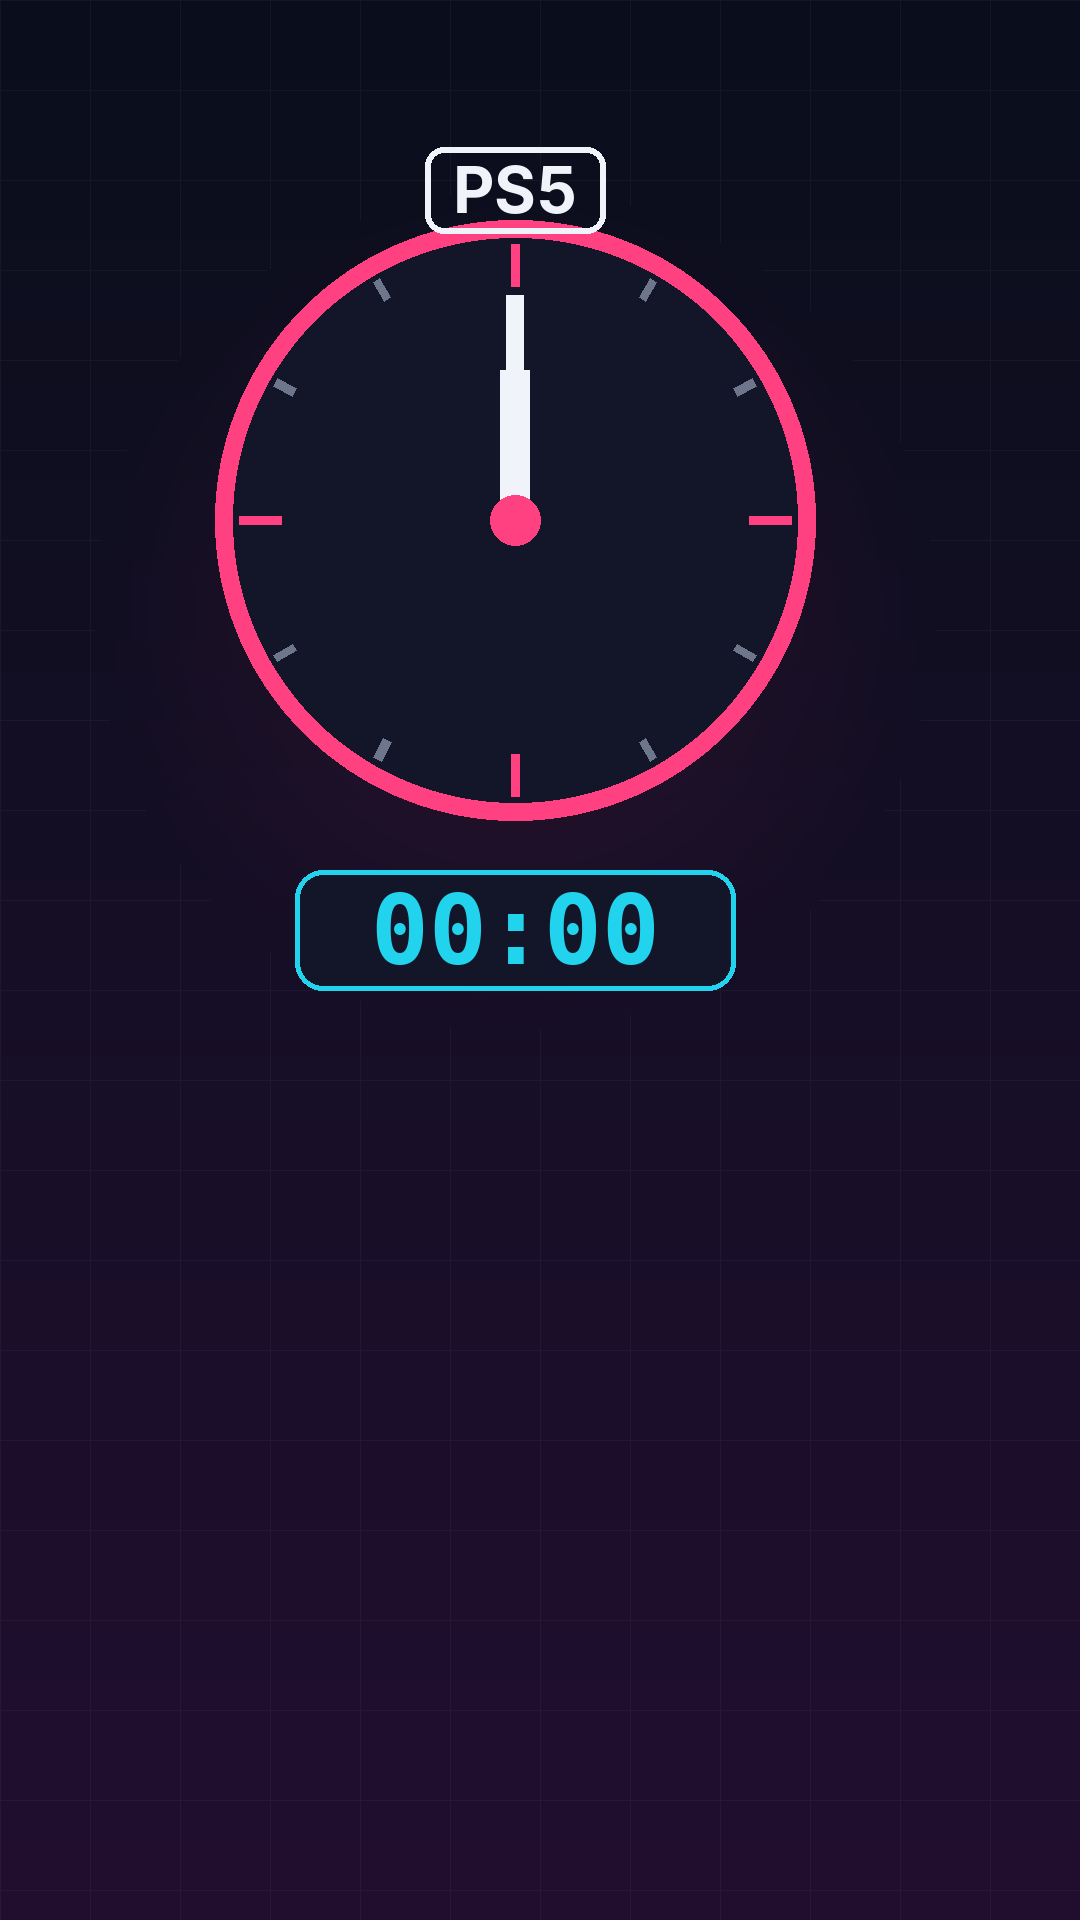
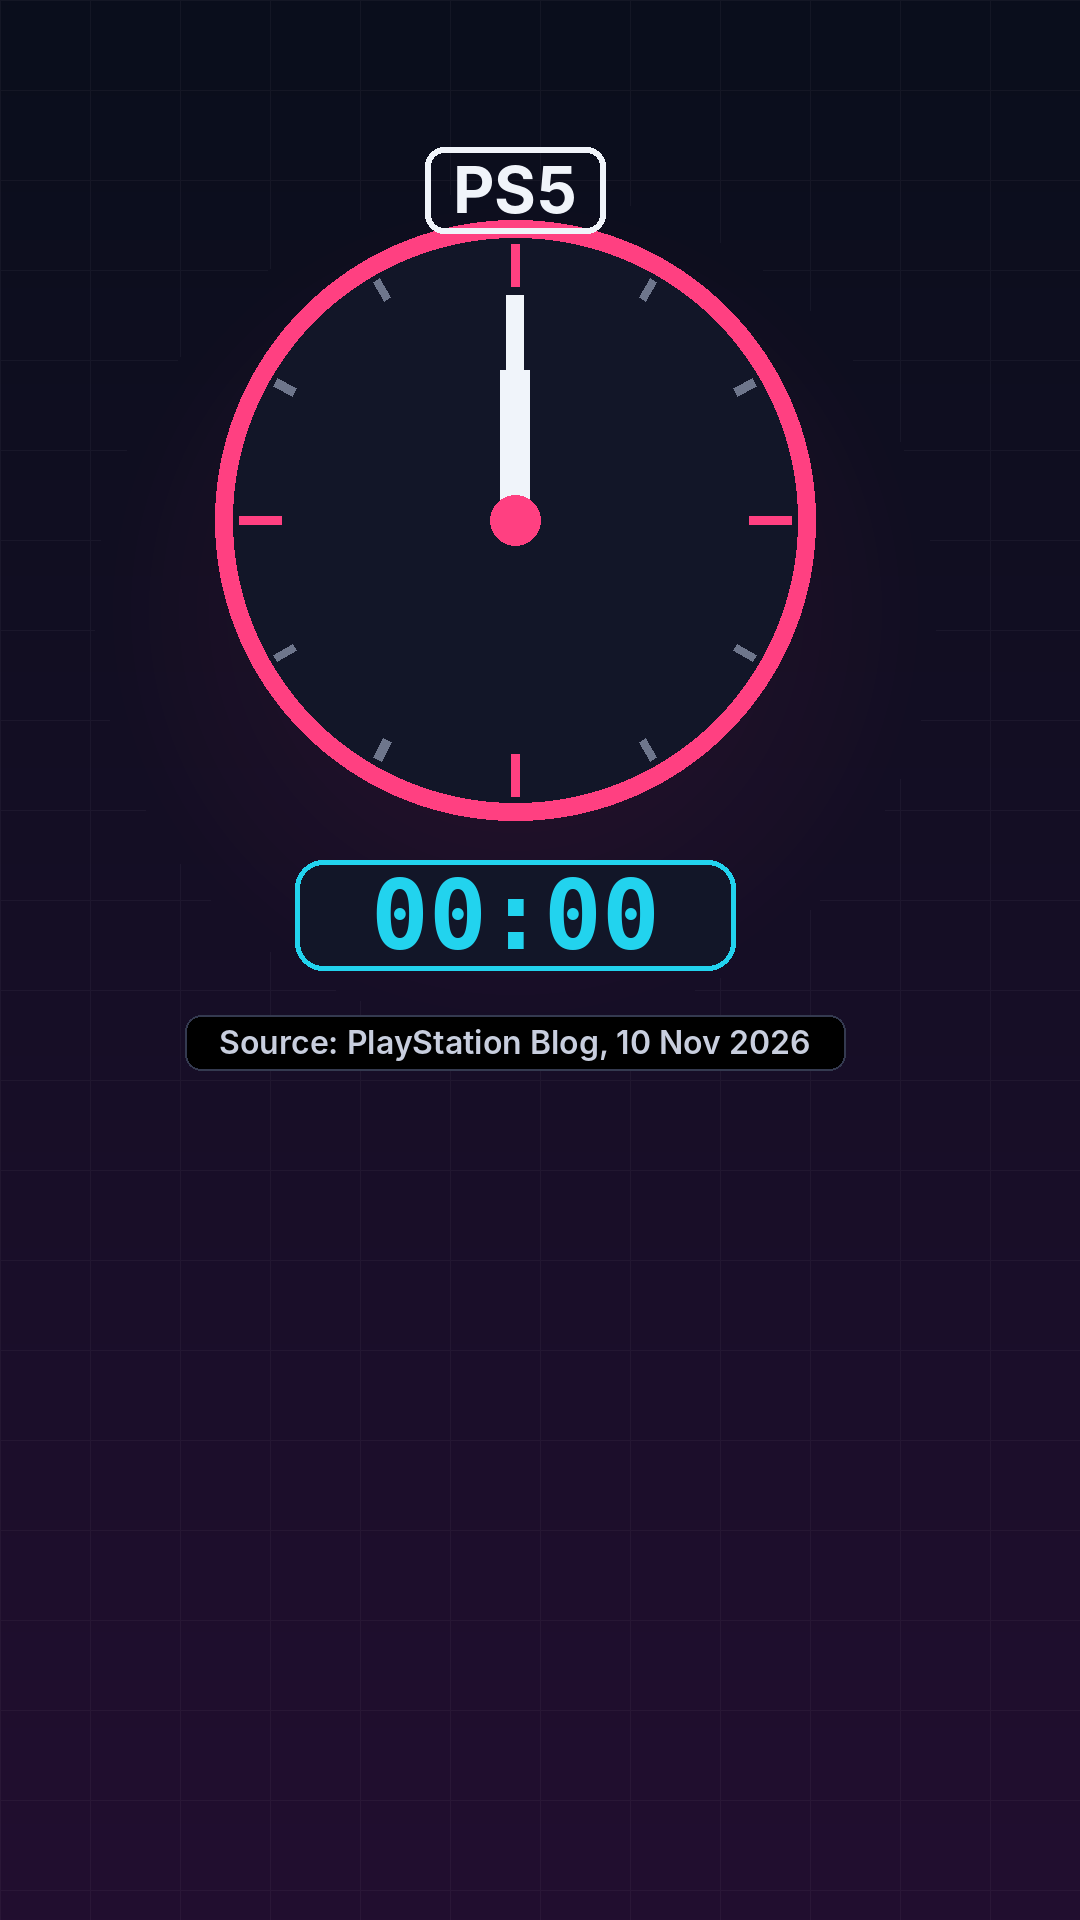
GTA6-20261118-001: shot plan and original graphics
Claude-Session: https://claude.ai/code/session_01N1NTnAXiWKwfKZxXkb7S4p

Changed region(s): [[0.1528, 0.4375, 0.7944, 0.5625]]

diff --git a/gta6-studio/posts/GTA6-20261118-001/make_graphics.py b/gta6-studio/posts/GTA6-20261118-001/make_graphics.py
@@ -90,6 +90,12 @@ def badge(d, cx, cy, label, size=90, fg=WHITE, border=WHITE, fill=None):
     return box
 
 
+def source_line(img):
+    d = ImageDraw.Draw(img)
+    pill(d, [CX - 330, 1015, CX + 330, 1070], fill=(0, 0, 0), outline=DIM, width=2, radius=16)
+    text_c(d, (CX, 1042), "Source: PlayStation Blog, 10 Nov 2026", font(SEMI, 32), (200, 206, 222))
+
+
 def save(img, name):
     p = os.path.join(OUT, f"{PID}_{name}.png")
     img.convert("RGB").save(p)
@@ -166,15 +172,18 @@ save(img, "03_calendar_19nov")
 # 04 midnight clock + PS5 badge
 img = base(); d = ImageDraw.Draw(img)
 clock(d, CX, 520, 300, 0, 0, ring=PINK, width=18)
-pill(d, [CX - 220, 870, CX + 220, 990], fill=(18, 22, 40), outline=TEAL, width=5, radius=28)
-text_c(d, (CX, 930), "00:00", font(MONO, 96), TEAL)
+pill(d, [CX - 220, 860, CX + 220, 970], fill=(18, 22, 40), outline=TEAL, width=5, radius=28)
+text_c(d, (CX, 915), "00:00", font(MONO, 96), TEAL)
 badge(d, CX, 190, "PS5", size=64, border=WHITE, fill=None)
+source_line(img)
 save(img, "04_clock_midnight")
 
 # 05 / 07 sweep frames
 for name, hl in [("05a_sweep_nz", [0]), ("05b_sweep_2", [0, 1]), ("07a_sweep_3", [0, 1, 2]),
                  ("07b_sweep_4", [0, 1, 2, 3]), ("07c_sweep_all", [0, 1, 2, 3, 4])]:
     img = base(); strip(img, highlighted=hl)
+    if name.startswith("05"):
+        source_line(img)
     save(img, name)
 
 # 06 NZ vs UK conversion with permanent OUR CONVERSION tag

diff --git a/gta6-studio/posts/GTA6-20261118-001/03-shot-plan.md b/gta6-studio/posts/GTA6-20261118-001/03-shot-plan.md
@@ -1,0 +1,65 @@
+# Shot plan: GTA6-20261118-001
+
+Pillar: news
+Viewer promise: In ~30 s you know when GTA 6 unlocks on your PS5 (midnight local time, country by country, NZ first) and what to check before then.
+Runtime target: 30.5 s (12 caption cards, text-only render; VO ON_HOLD)
+Footage mode: news-explainer. ALL visuals are original graphics made by us. No gameplay, no Rockstar/PlayStation/Xbox logos, key art, trailer frames or store/console UI. Platform names appear only as plain text.
+Verified claims used: FACT-0001, FACT-0002, FACT-0003, FACT-0006
+Unverified interpretations (NOT to be stated as fact): any Xbox console or pre-load time (FACT-0004/0007), PC status (FACT-0008), per-time-zone unlocks inside multi-zone countries, unlock times for any country other than NZ. The NZ=UK 11:00 time is OUR CONVERSION and is labelled inside the graphic.
+Spoiler level: none
+
+**Graphic prefix:** `G_` = `media/graphics/GTA6-20261118-001_`. All are 1080x1920 PNG with framing `fit` (it is the native size, so nothing is cropped). Images are static. The editor may add a slow 1.00→1.04 zoom per segment if the renderer supports it; this is optional.
+**Safe zones (checked against tools/render_short.py):** lower captions use MarginV 620, so caption text occupies roughly y 1100–1300. All graphic content sits in x 80–950, y 160–1070. Nothing important is in the bottom 620 px or the right 130 px. The top ~150 px is empty too (platform header).
+**Captions:** burned in by the editor at `position: "lower"`, using the exact on-screen text from 02-script.md. The graphics deliberately do not repeat the caption sentences. Exceptions: the "OUR CONVERSION / not an official time" tag (beat 6) and the source line (beats 4–5) are baked into the graphic so they stay visible for the whole card, as the script requires.
+**Audio (all beats):** text-only render, VO ON_HOLD. Music only if a licensed track is cleared in asset_manifest (none yet), otherwise silent or a short tick SFX that we own. No game audio exists.
+
+| # | Time | Narration (VO) | On-screen text (caption) | Story function | Visual source + in/out | Framing | Audio | Notes |
+|---|---|---|---|---|---|---|---|---|
+| 1 | 00:00.0–00:02.0 | When does GTA 6 hit your PS5? | WHEN DOES GTA 6 HIT YOUR PS5? | Hook: open the question | `G_01_hook_clock_ps5.png` 0–2.0 s | fit | VO (on hold) | HOOK FRAME. Large pink clock with a teal "?" bubble and a plain-text "PS5" badge (no logo). It shows exactly what the hook asks: a time question about PS5. |
+| 2 | 00:02.0–00:04.2 | Not everywhere at the same moment. | Not everywhere at the same moment. | Context: rolling launch | `G_02_world_clocks.png` 0–2.2 s | fit | VO | Five unlabelled clocks, each showing a different time, plus wave lines. Unlabelled on purpose, so no country time is implied. FACT-0003 |
+| 3 | 00:04.2–00:06.5 | Release day: November 19, 2026. | RELEASE DAY: 19 NOV 2026 | Context: date | `G_03_calendar_19nov.png` 0–2.3 s | fit | VO | Calendar page: NOV / 19 / 2026. FACT-0001 |
+| 4 | 00:06.5–00:09.0 | On PS5, it's midnight local time. | PS5: MIDNIGHT, LOCAL TIME | Demo: the rule | `G_04_clock_midnight.png` 0–2.5 s | fit | VO | Clock at 00:00 with a digital "00:00" readout and a small plain-text PS5 badge. The baked-in source line reads "Source: PlayStation Blog, 10 Nov 2026" (y≈1042). FACT-0003 |
+| 5a | 00:09.0–00:10.4 | Country by country, starting in New Zealand. | Country by country. Starts: New Zealand. | Demo: NZ first | `G_05a_sweep_nz.png` 0–1.4 s | fit | VO | Clock strip. Only the "NZ" clock is lit pink at 00:00. A WESTWARD arrow is shown, and the source line stays. FACT-0003 |
+| 5b | 00:10.4–00:11.8 | (cont.) | (same caption continues) | Demo: sweep begins | `G_05b_sweep_2.png` 0–1.4 s | fit | VO | The second clock lights up. The other clocks are unlabelled, so no country is named. Source line stays. |
+| 6 | 00:11.8–00:15.0 | Our math: 11am UK time, November 18. | NZ midnight = 11:00 UK, 18 Nov / OUR CONVERSION | Demo: concrete example | `G_06_nz_uk_conversion.png` 0–3.2 s | fit | VO | NZ clock "00:00 19 NOV" = UK clock "11:00 18 NOV". The yellow "OUR CONVERSION" pill and the line "not an official time" are baked in, so they stay visible for the whole card. Arithmetic: 00:00 NZDT (UTC+13) 19 Nov = 11:00 GMT 18 Nov. |
+| 7a | 00:15.0–00:16.0 | Your turn: when your country hits midnight. | YOUR TURN = YOUR COUNTRY'S MIDNIGHT | Payoff | `G_07a_sweep_3.png` 0–1.0 s | fit | VO | The sweep continues (3 lit). No source line, because this is a recap of the same claim. FACT-0003 |
+| 7b | 00:16.0–00:17.0 | (cont.) | (cont.) | Payoff | `G_07b_sweep_4.png` 0–1.0 s | fit | VO | 4 lit |
+| 7c | 00:17.0–00:17.8 | (cont.) | (cont.) | Payoff | `G_07c_sweep_all.png` 0–0.8 s | fit | VO | All 5 lit |
+| 8 | 00:17.8–00:20.3 | Several time zones? Check PlayStation Support. | Several time zones? Check PlayStation Support. | Payoff: caveat | `G_08_timezones_info.png` 0–2.5 s | fit | VO | Three clocks one hour apart and an "i" info icon. No logo or page screenshot. It makes no claim about how multi-zone countries unlock. |
+| 9 | 00:20.3–00:22.5 | Heads up: it's not on PS4. | Heads up: NOT on PS4 | Payoff: platform | `G_09_not_ps4.png` 0–2.2 s | fit | VO | Plain-text "PS4" badge (grey, red strike-through) and "PS5" badge with a green tick. No console images or logos. FACT-0002 |
+| 10 | 00:22.5–00:25.0 | Pre-ordered? Pre-load opened November 10. | Pre-ordered? Pre-load opened 10 Nov | Close: action | `G_10_download_bar.png` 0–2.5 s | fit | VO | Generic download arrow icon, a full bar with "100%" and a "10 NOV" tag. It does not imitate PlayStation UI. FACT-0006 |
+| 11 | 00:25.0–00:27.8 | You need at least 212GB free. | Need at least 212GB free | Close: action | `G_11_storage_212gb.png` 0–2.8 s | fit | VO | Generic drive icon, "212GB" in large type and a storage bar with a "MIN" marker. FACT-0006 |
+| 12 | 00:27.8–00:30.5 | Xbox player? Check Rockstar Support for times. | Xbox player? Check Rockstar Support for times. | Close / end card | `G_12_end_info.png` 0–2.7 s | fit | VO | Neutral "?" circle with no logos and no Xbox time. End on this card: no handle, no follow bait. |
+
+Spare: `G_00_bg_dark.png` is the plain brand background (the same gradient and faint grid, with no content). Use it as a fallback or a padding frame. No beat requires it.
+
+Visual changes: 15 segments in 30.5 s. The longest hold is 3.2 s (beat 6, a dense comparison card that needs reading time). In the hook and demo (0–15 s), every change comes within 1.4–3.2 s. There is no dead air.
+
+### Graphic → beat index
+| File | Beat(s) |
+|---|---|
+| media/graphics/GTA6-20261118-001_00_bg_dark.png | spare / fallback |
+| media/graphics/GTA6-20261118-001_01_hook_clock_ps5.png | 1 (hook) |
+| media/graphics/GTA6-20261118-001_02_world_clocks.png | 2 |
+| media/graphics/GTA6-20261118-001_03_calendar_19nov.png | 3 |
+| media/graphics/GTA6-20261118-001_04_clock_midnight.png | 4 |
+| media/graphics/GTA6-20261118-001_05a_sweep_nz.png | 5a |
+| media/graphics/GTA6-20261118-001_05b_sweep_2.png | 5b |
+| media/graphics/GTA6-20261118-001_06_nz_uk_conversion.png | 6 |
+| media/graphics/GTA6-20261118-001_07a_sweep_3.png | 7a |
+| media/graphics/GTA6-20261118-001_07b_sweep_4.png | 7b |
+| media/graphics/GTA6-20261118-001_07c_sweep_all.png | 7c |
+| media/graphics/GTA6-20261118-001_08_timezones_info.png | 8 |
+| media/graphics/GTA6-20261118-001_09_not_ps4.png | 9 |
+| media/graphics/GTA6-20261118-001_10_download_bar.png | 10 |
+| media/graphics/GTA6-20261118-001_11_storage_212gb.png | 11 |
+| media/graphics/GTA6-20261118-001_12_end_info.png | 12 |
+
+Provenance: all 16 PNGs were generated programmatically with Pillow from shapes plus the Inter and DejaVu Sans Mono fonts (system fonts, OFL/free licences). The generator is `posts/GTA6-20261118-001/make_graphics.py`; to regenerate, run `python3 make_graphics.py media/graphics`. They contain no AI-generated imagery, no third-party art and no logos. The rights reviewer should add them to data/asset_manifest.csv as origin_type `original_graphic`.
+
+## Shots still NEEDED (footage scout / owner to capture)
+| Need ID | Exact description | Length | Must show | Suggested capture method |
+|---|---|---|---|---|
+| none | This is a graphics-only news-explainer. Every beat is covered by an original graphic above. No gameplay or official media is needed or allowed. | — | — | — |
+
+Optional (not blocking): a licensed or owned music bed or tick SFX for the text-only render. No music file is cleared yet.
